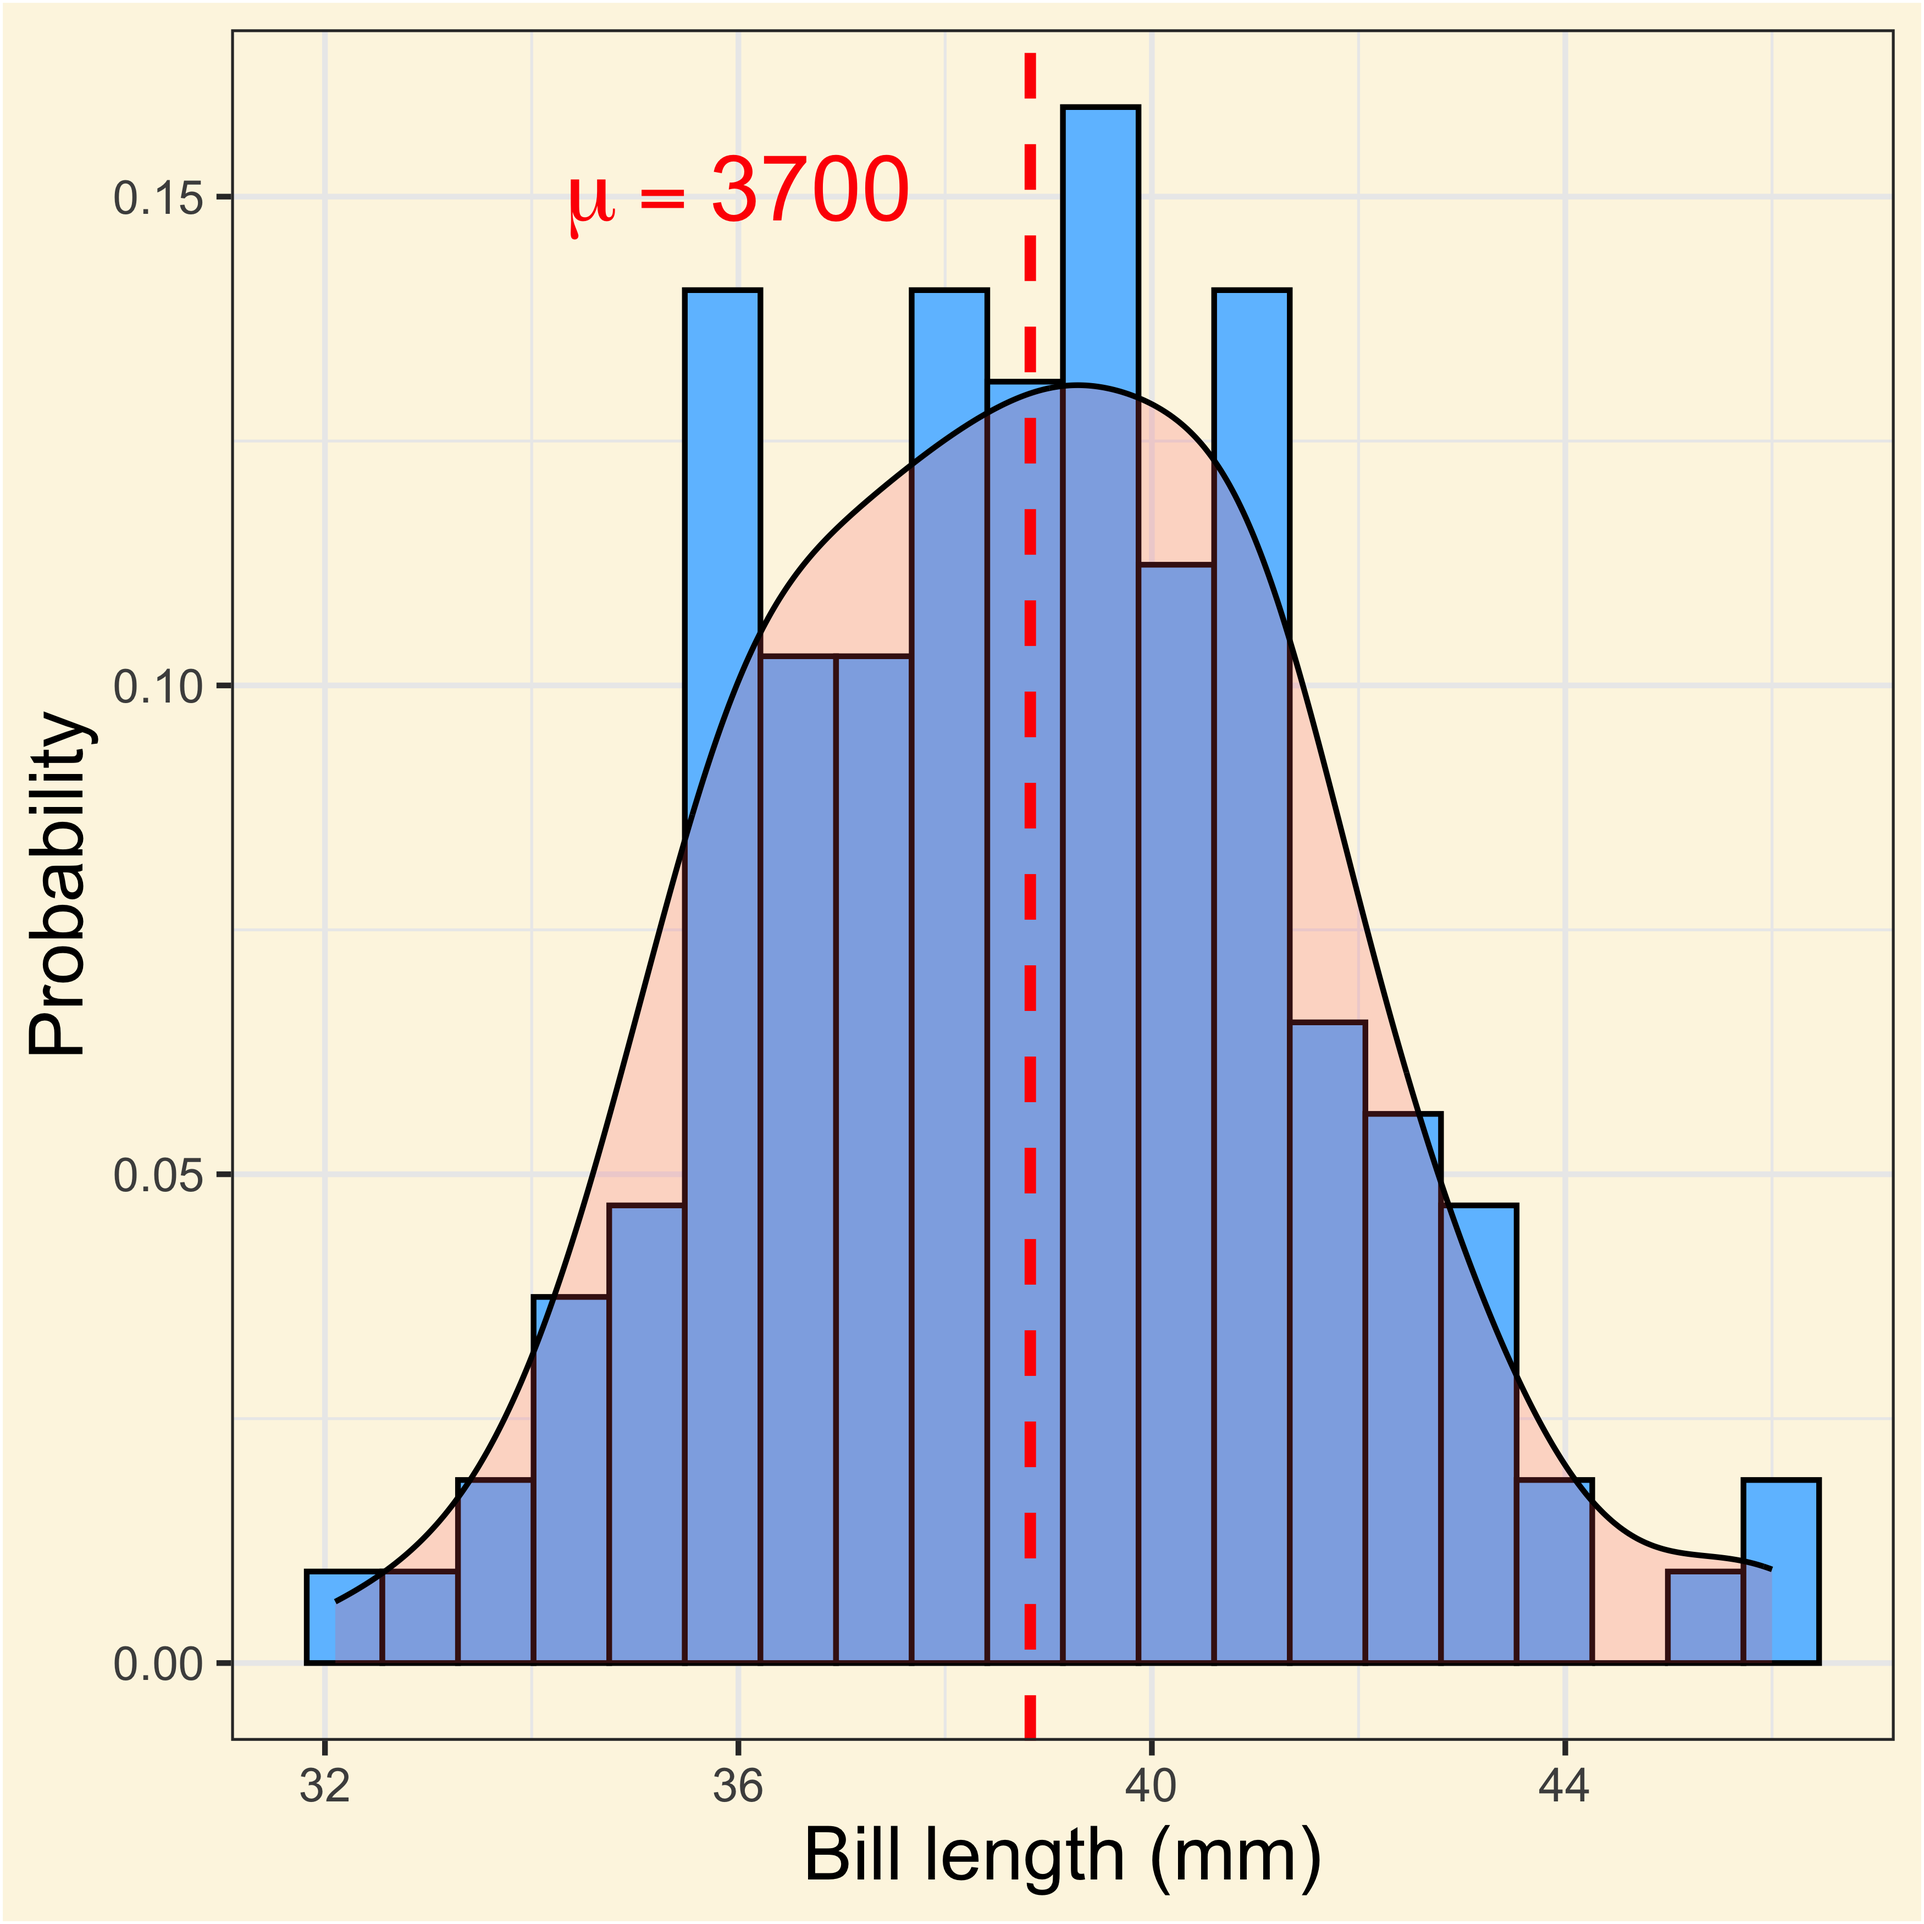
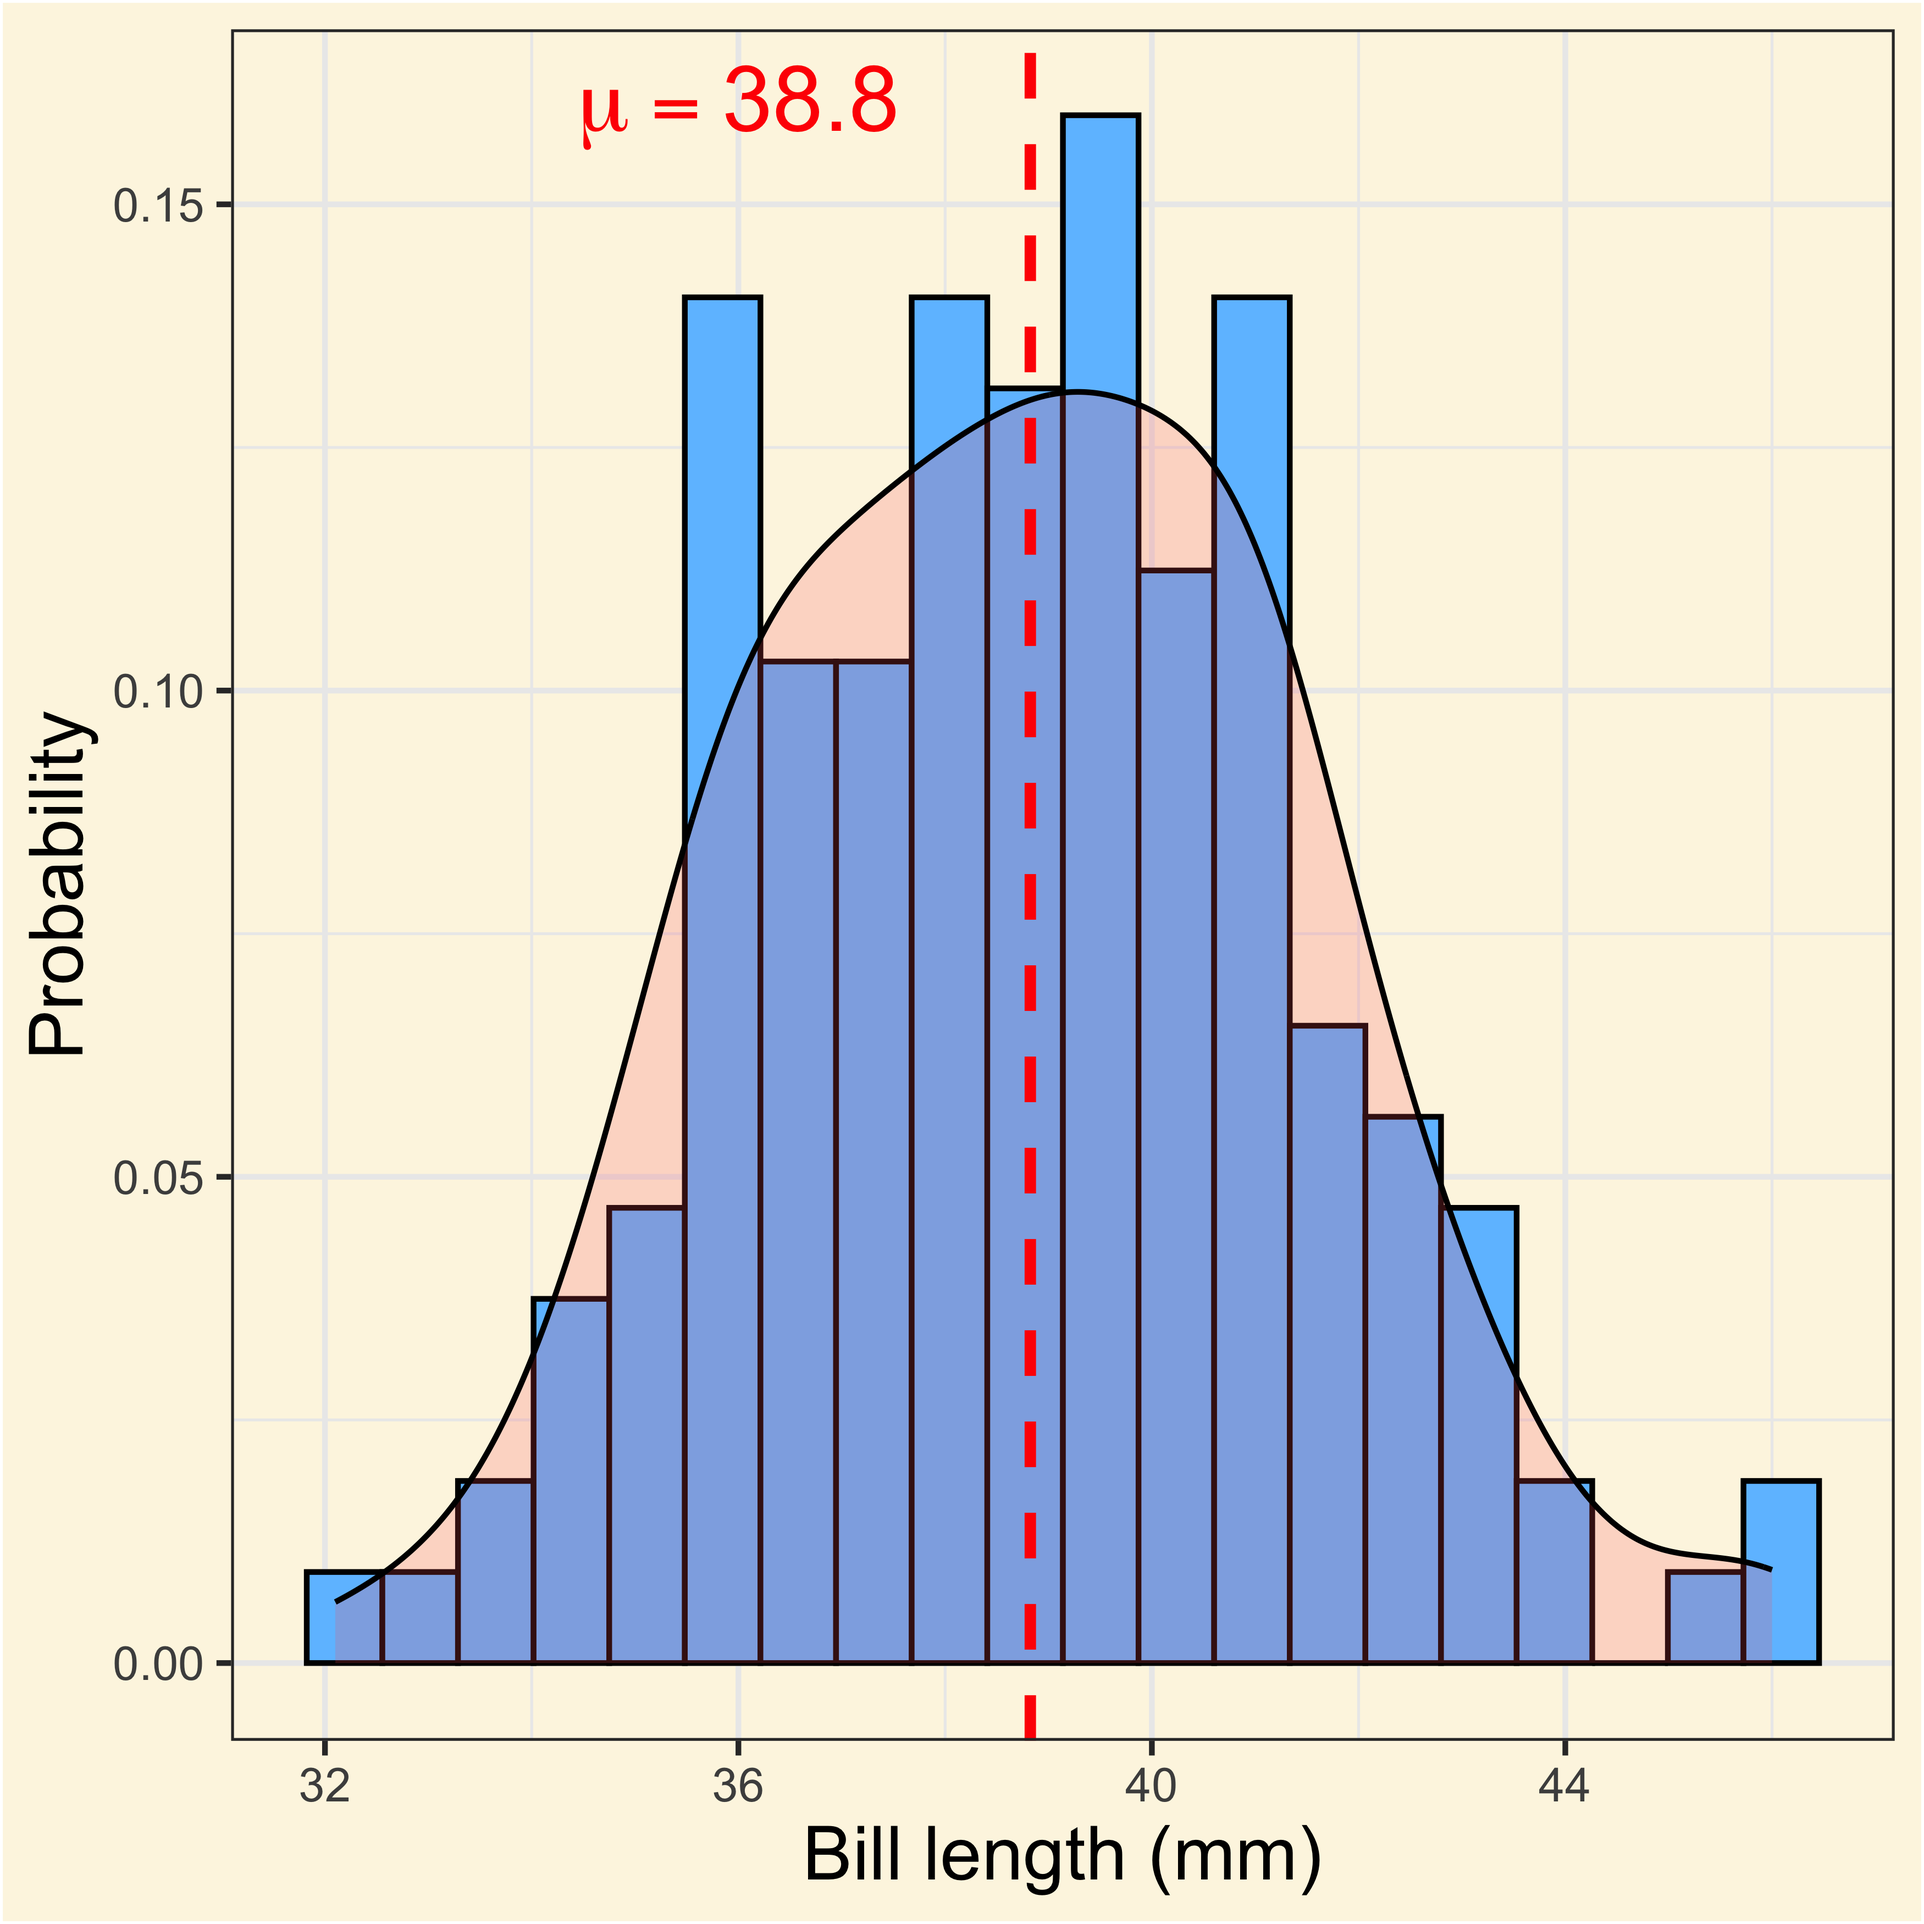
update average in a figure

diff --git a/03-descriptive-stats/03-descriptive-stats.html b/03-descriptive-stats/03-descriptive-stats.html
@@ -498,15 +498,15 @@ x_{(n+1)/2} &amp;\text{if $n \equiv 1$}     \\
 <dl class="code-annotation-container-hidden code-annotation-container-grid">
 <dt data-target-cell="annotated-cell-4" data-target-annotation="1">1</dt>
 <dd>
-<span data-code-lines="2" data-code-cell="annotated-cell-4" data-code-annotation="1">The operator <code>%%</code> is called modulus. In this case, will return the remainder of the division (in this case by 2), and then will check if this value is different than 0. If so, then will apply the equation for the odd-numbered list.</span>
+<span data-code-cell="annotated-cell-4" data-code-annotation="1" data-code-lines="2">The operator <code>%%</code> is called modulus. In this case, will return the remainder of the division (in this case by 2), and then will check if this value is different than 0. If so, then will apply the equation for the odd-numbered list.</span>
 </dd>
 <dt data-target-cell="annotated-cell-4" data-target-annotation="2">2</dt>
 <dd>
-<span data-code-lines="3" data-code-cell="annotated-cell-4" data-code-annotation="2">Equation for n if it is odd</span>
+<span data-code-cell="annotated-cell-4" data-code-annotation="2" data-code-lines="3">Equation for n if it is odd</span>
 </dd>
 <dt data-target-cell="annotated-cell-4" data-target-annotation="3">3</dt>
 <dd>
-<span data-code-lines="5" data-code-cell="annotated-cell-4" data-code-annotation="3">Equation for n if it is even</span>
+<span data-code-cell="annotated-cell-4" data-code-annotation="3" data-code-lines="5">Equation for n if it is even</span>
 </dd>
 </dl>
 </div>
@@ -835,19 +835,19 @@ CV = \frac{S}{\overline{x}} \times 100
 <dl class="code-annotation-container-hidden code-annotation-container-grid">
 <dt data-target-cell="annotated-cell-22" data-target-annotation="1">1</dt>
 <dd>
-<span data-code-lines="3" data-code-cell="annotated-cell-22" data-code-annotation="1">This argument replaces the <code>group_by</code> verb avoiding one pipe step</span>
+<span data-code-cell="annotated-cell-22" data-code-annotation="1" data-code-lines="3">This argument replaces the <code>group_by</code> verb avoiding one pipe step</span>
 </dd>
 <dt data-target-cell="annotated-cell-22" data-target-annotation="2">2</dt>
 <dd>
-<span data-code-lines="5" data-code-cell="annotated-cell-22" data-code-annotation="2">Here we will iterate through all the columns that that satisfy the condition <code>is.numeric</code>.</span>
+<span data-code-cell="annotated-cell-22" data-code-annotation="2" data-code-lines="5">Here we will iterate through all the columns that that satisfy the condition <code>is.numeric</code>.</span>
 </dd>
 <dt data-target-cell="annotated-cell-22" data-target-annotation="3">3</dt>
 <dd>
-<span data-code-lines="6" data-code-cell="annotated-cell-22" data-code-annotation="3">This is a named list of all the functions we want to execute over the defined columns</span>
+<span data-code-cell="annotated-cell-22" data-code-annotation="3" data-code-lines="6">This is a named list of all the functions we want to execute over the defined columns</span>
 </dd>
 <dt data-target-cell="annotated-cell-22" data-target-annotation="4">4</dt>
 <dd>
-<span data-code-lines="7" data-code-cell="annotated-cell-22" data-code-annotation="4">This is called string interpolation, and here will create the names of the newly created variables by appending the name of the function <code>{.fn}</code> that appeared on the <code>.fns</code> list of functions to each name of the columns <code>{.col}</code> separated by the underscore <code>_</code>.</span>
+<span data-code-cell="annotated-cell-22" data-code-annotation="4" data-code-lines="7">This is called string interpolation, and here will create the names of the newly created variables by appending the name of the function <code>{.fn}</code> that appeared on the <code>.fns</code> list of functions to each name of the columns <code>{.col}</code> separated by the underscore <code>_</code>.</span>
 </dd>
 </dl>
 </div>

diff --git a/04-normal-distribution/04-normal-distribution.html b/04-normal-distribution/04-normal-distribution.html
@@ -445,8 +445,8 @@ Angie T.
 <span>    y <span class="op">=</span> <span class="st">"Frequency"</span></span>
 <span>  <span class="op">)</span> <span class="op">+</span></span>
 <span>  <span class="fu">annotate</span><span class="op">(</span></span>
-<span>    <span class="st">"text"</span>, label <span class="op">=</span> <span class="fu"><a href="https://rdrr.io/r/base/expression.html">expression</a></span><span class="op">(</span><span class="st">"mu == 3700"</span><span class="op">)</span>, parse <span class="op">=</span> <span class="cn">TRUE</span>,</span>
-<span>    x <span class="op">=</span> <span class="fl">36</span>, y <span class="op">=</span> <span class="fl">0.15</span>, size <span class="op">=</span> <span class="fl">6</span>, colour <span class="op">=</span> <span class="st">"red"</span></span>
+<span>    <span class="st">"text"</span>, label <span class="op">=</span> <span class="fu"><a href="https://rdrr.io/r/base/expression.html">expression</a></span><span class="op">(</span><span class="st">"mu == 38.8"</span><span class="op">)</span>, parse <span class="op">=</span> <span class="cn">TRUE</span>,</span>
+<span>    x <span class="op">=</span> <span class="fl">36</span>, y <span class="op">=</span> <span class="fl">0.16</span>, size <span class="op">=</span> <span class="fl">6</span>, colour <span class="op">=</span> <span class="st">"red"</span></span>
 <span>  <span class="op">)</span></span>
 <span><span class="co"># Density plot</span></span>
 <span><span class="fu">ggplot</span><span class="op">(</span><span class="va">adelie</span>, <span class="fu">aes</span><span class="op">(</span><span class="va">bill_length_mm</span><span class="op">)</span><span class="op">)</span> <span class="op">+</span> </span>
@@ -463,10 +463,10 @@ Angie T.
 <span>    y <span class="op">=</span> <span class="st">"Probability"</span></span>
 <span>  <span class="op">)</span> <span class="op">+</span></span>
 <span>  <span class="fu">annotate</span><span class="op">(</span></span>
-<span>    <span class="st">"text"</span>, label <span class="op">=</span> <span class="fu"><a href="https://rdrr.io/r/base/expression.html">expression</a></span><span class="op">(</span><span class="st">"mu == 3700"</span><span class="op">)</span>, parse <span class="op">=</span> <span class="cn">TRUE</span>,</span>
-<span>    x <span class="op">=</span> <span class="fl">36</span>, y <span class="op">=</span> <span class="fl">0.15</span>, size <span class="op">=</span> <span class="fl">6</span>, colour <span class="op">=</span> <span class="st">"red"</span></span>
+<span>    <span class="st">"text"</span>, label <span class="op">=</span> <span class="fu"><a href="https://rdrr.io/r/base/expression.html">expression</a></span><span class="op">(</span><span class="st">"mu == 38.8"</span><span class="op">)</span>, parse <span class="op">=</span> <span class="cn">TRUE</span>,</span>
+<span>    x <span class="op">=</span> <span class="fl">36</span>, y <span class="op">=</span> <span class="fl">0.16</span>, size <span class="op">=</span> <span class="fl">6</span>, colour <span class="op">=</span> <span class="st">"red"</span></span>
 <span>  <span class="op">)</span> </span></code><button title="Copy to Clipboard" class="code-copy-button"><i class="bi"></i></button></pre></div>
-</details><div class="cell quarto-layout-panel" data-hash="04-normal-distribution_cache/revealjs/01-normality_e912330157eab1397318de893ffa86aa">
+</details><div class="cell quarto-layout-panel" data-hash="04-normal-distribution_cache/revealjs/01-normality_a72488b0bce4e43b204683d390bc25f2">
 <div class="quarto-layout-row quarto-layout-valign-top">
 <div class="cell-output-display quarto-layout-cell" style="flex-basis: 50.0%;justify-content: center;">
 <div class="quarto-figure quarto-figure-center">
